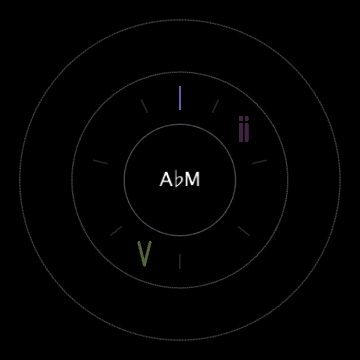
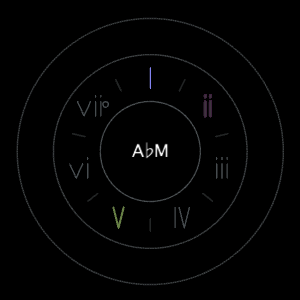
Updated README and example images to reflect the addition of overtones and some layout changes.

diff --git a/packages/engine/test/lenses/HarmonyLens.test.ts b/packages/engine/test/lenses/HarmonyLens.test.ts
@@ -194,8 +194,10 @@ describe("HarmonyLens", () => {
       const frame = createTestFrame(1000, null, 0);
       const scene = lens.update(frame, null);
 
-      // No chord shape, no tension bar (disabled by default)
-      expect(scene.entities.length).toBe(0);
+      // No chord shape, no tension bar (disabled by default); only the
+      // interval-name dial, which is structural and on by default
+      expect(scene.entities.some((e) => e.data?.type === "chord-shape")).toBe(false);
+      expect(scene.entities.every((e) => e.id.includes(":interval-name-"))).toBe(true);
     });
   });
 
@@ -1098,8 +1100,11 @@ describe("HarmonyLens interval-name dial", () => {
   const dial = (lens: HarmonyLens) =>
     lens.update(createTestFrame(1000, null, 0), null).entities.filter((e) => e.id.includes(":interval-name-"));
 
-  it("is off by default", () => {
-    expect(dial(new HarmonyLens())).toHaveLength(0);
+  it("is on by default, and can be turned off", () => {
+    expect(dial(new HarmonyLens())).toHaveLength(12);
+    const lens = new HarmonyLens();
+    lens.setMacros({ intervalNames: false });
+    expect(dial(lens)).toHaveLength(0);
   });
 
   it("labels all twelve angles, R upright at the top and d5 upside down at the bottom", () => {

diff --git a/packages/contracts/annotations/manifest.ts b/packages/contracts/annotations/manifest.ts
@@ -377,7 +377,7 @@ const macros: MacroAnnotation[] = [
     name: "Interval names",
     aliases: ["interval labels", "chord dial", "interval dial", "show intervals"],
     type: "toggle",
-    default: false, // matches HarmonyLens macros.intervalNames
+    default: true, // matches HarmonyLens macros.intervalNames
     affects: ["harmony"],
     notes: [
       "A fixed dial of simple-interval names around the chord glyph, one per semitone from the root at the spoke angles: R m2 M2 m3 M3 P4 d5 P5 m6 M6 m7 M7. R is upright at the top; d5 is upside down at the bottom. Labels sit on the inner edge of the overtone steam ring, in the NOW line's grey.",

diff --git a/packages/engine/src/lenses/HarmonyLens.ts b/packages/engine/src/lenses/HarmonyLens.ts
@@ -401,7 +401,7 @@ export class HarmonyLens implements IVisualLens {
     linger: PROGRESSION_FADE_VALUE,
     overtones: true,
     modalInterchangeHints: false,
-    intervalNames: false,
+    intervalNames: true,
   };
 
   // Fade-out state: when no chord is active, keep rendering the most

diff --git a/README.md b/README.md
@@ -6,7 +6,7 @@ Synesthetica is a real-time music visualiser that listens to MIDI or audio and d
 
 ![Synesthetica — the three lenses in a full-view session](docs/readme/full-view.png)
 
-Tested on Chrome and Claude Desktop. Not built for mobile.
+Tested on Chrome and Claude Desktop. Not built for small screens.
 
 ## Getting started
 
@@ -16,7 +16,7 @@ It'll load in an immediately usable state but it's a lot better if you set up a 
 
 #### Music source
 
-The default input maps an on-screen musical keyboard to your typing keyboard. It requires no setup but has no velocity, limited range and bad ergonomics. A proper MIDI controller is best. Plug one in and reload the page to see it in the inputs list. Audio is also supported but that's converted to MIDI anyway (by Spotify's <a href="https://basicpitch.spotify.com/" target="_blank" rel="noopener noreferrer">Basic Pitch</a> running in Web Assembly), so you'll get best results by supplying MIDI directly.
+The default input maps an on-screen musical keyboard to your typing keyboard. It requires no setup but has no velocity, limited range and bad ergonomics. A proper MIDI controller is best. Plug one in and reload the page to see it in the inputs list. Audio is also supported but that's converted to MIDI anyway (by Spotify's <a href="https://basicpitch.spotify.com/" target="_blank" rel="noopener noreferrer">Basic Pitch</a> running in WebAssembly), so you'll get best results by supplying MIDI directly.
 
 #### Key
 
@@ -24,7 +24,7 @@ A key is required to represent functional harmony (e.g. ii → V → I). It stil
 
 #### Rhythm
 
-It loads up in free time mode. Supply a tempo and time signature to see rhythm analysis. This will give you beat and bar lines, an optional metronome, and a view on how tight your playing is. Timing analysis is relative to a configurable quantise resolution (16ths by default). Swing is not yet supported.
+It loads up in free time mode. Supply a tempo and time signature to see rhythm analysis. This gives you beat and bar lines, an optional metronome, and a view on how tight your playing is. Timing analysis is relative to a configurable quantise resolution (16ths by default). Swing is not yet supported.
 
 #### Aesthetics
 
@@ -59,7 +59,7 @@ Add this block to your Claude Desktop config file (`~/Library/Application Suppor
 
 Restart Claude Desktop after saving. `npx` fetches `synesthetica` from the npm registry the first time it runs and caches it locally, so there's no separate install step. If you'd rather have it installed globally, `npm install -g synesthetica` works too. See [packages/cli/README.md](packages/cli/README.md) for Claude Code and other clients.
 
-Note that the LLM will only spin up context when you start a session or ask about Synesthetica. This keeps the always-on token cost as low as possible, around 50–80 tokens.
+Note that the LLM only spins up context when you start a session or ask about Synesthetica. This keeps the always-on token cost as low as possible, around 50–80 tokens.
 
 #### Start a session
 
@@ -73,32 +73,32 @@ There are three lenses.
 
 #### Dynamics lens
 
-<img src="docs/readme/dynamics.png" alt="Dynamics lens — velocity bar" align="right" height="200" hspace="16">
+<img src="docs/readme/dynamics.png" alt="Dynamics lens — velocity bar" align="left" height="200" hspace="16">
 
 This is the simplest one. It's just a bar on the left of the screen that renders a little strip indicating how hard you played each note. Notes are undifferentiated in pitch and linger a while (you can change how long). This equips your visual memory to see rising and falling trends, stability and spread. No need for fancy graphs because your brain does this well already. The higher the strip, the harder you played.
 
-<br clear="right">
+<br clear="left">
 
 
 #### Rhythm lens
 
-This is a bit like those piano tutorial videos, where the notes fall toward a keyboard. Except they rise from the keyboard in this case because we're showing what happened instead of prescribing what will - you are the input; do what you want.
+This is a bit like those piano tutorial videos, where the notes fall toward a keyboard. Except they rise from the keyboard in this case because we're showing what happened instead of prescribing what will — you are the input; do what you want.
 
-There's a "now" line near the bottom that will pulse to the beat if a tempo is supplied. The notes you play will emerge from there and scroll upward. You'll see upcoming beats and bars approach from below the now line.
+There's a "now" line near the bottom that pulses to the beat if a tempo is supplied. The notes you play emerge from there and scroll upward. You'll see upcoming beats and bars approach from below the now line.
 
-Notes are arranged horizontally from C to B and are mapped to the colour wheel to give each note a stable colour. You can change this mapping. It is applied throughout the interface. Octaves are ignored.
+Notes are labelled and arranged horizontally from C to B, and are mapped to the colour wheel to give each note a stable colour. You can change this mapping. It is applied throughout the interface. Octaves are ignored.
 
-If you've supplied a tempo, little drift streaks will tell you if you played early or late. Think of them as a nudge; streaks fanning downwards are saying this note would need to be a bit higher / earlier to be on-grid. Ones fanning upwards say the inverse (lower / later). This is analysed relative to the quantise resolution setting. A little horizontal line will show the nearest beat division that each note is assessed against.
+If you've supplied a tempo, little drift streaks show if you've played early or late. Think of them as a nudge; streaks fanning downwards are saying this note would need to be a bit higher / earlier to be on-grid. Ones fanning upwards say the inverse (lower / later). This is analysed relative to the quantise resolution setting. A little horizontal line shows the nearest beat division that each note is assessed against.
 
 ![Rhythm lens — note strips rising from the NOW line, drift streaks against beat subdivisions](docs/readme/rhythm.png)
 
 #### Harmony lens
 
-This is the most complex one. It has two sections: a chord glyph and a functional harmony clock. Both orient notes radially, like a clock (for the geeks: think of the 12-note semitone / 7-note diatonic structure as analogous to base12 / base7 modular arithmetic).
+This is the most complex one. It has two sections: a chord glyph and a functional harmony clock. Both are laid out radially, like a clock (for the geeks: think of the 12-note semitone / 7-note diatonic structure as analogous to base12 / base7 modular arithmetic).
 
 ##### Chord glyph
 
-The chord glyph provides a stable visual language for chord quality, irrespective of root note or voicing. Any minor triad, for example, will always have a squiggly hub and three long spokes with the same spacing, regardless of how it's voiced or where it's rooted.
+The chord glyph provides a stable visual language for chord quality, irrespective of root note or voicing. Any minor triad, for example, always has a squiggly hub and three long spokes with the same spacing, regardless of how it's voiced or where it's rooted.
 
 The hub margin encodes chord quality.
 
@@ -112,7 +112,7 @@ The hub margin encodes chord quality.
 | Diminished | Concave |
 | Augmented | Convex |
 
-The spokes encode intervals. They are classed by length and appear oriented around the clock relative to their intervallic distance. Any two spokes that are a major 3rd apart will be at the same angle to each other. Two spokes that are a minor 3rd apart will have a slightly more acute angle. The root note is always at 0° / 12 o'clock.
+Each note appears as a radial spoke around the hub. They are spaced out according to their intervallic distance from root. Much like a clock, it starts with root at 0° / 12 o'clock and wraps around at an octave. Intervals are labelled relative to root in a ring around the glyph. The spatial relationships hold throughout the chord though. For example, any two spokes that are a minor 3rd apart are always at the same angle to each other, which is slightly more acute than a major 3rd's. Spoke length shows each interval's role in the chord:
 
 | Interval set | Spoke type |
 | --- | --- |
@@ -123,27 +123,27 @@ The spokes encode intervals. They are classed by length and appear oriented arou
 
 Each spoke encodes its specific note using the same colour-mappings applied to the rhythm lens. The hub adopts the colour of the root note. Inversions are subtly indicated by a thicker outline on the bass spoke.
 
+Overtones are shown as a wispy mist corona emitted from the ring of interval labels. Each partial appears around the ring at its pitch's angle and colour. Partials sit at their true pitch, so they drift from equal temperament. They combine across notes, and their level is shown by the density of the mist. This gives a sense of which notes a chord already implies. Overtones can also be shown on the rhythm lens from the Basics tab; level, rolloff and colour are in Advanced. Note that this is a theoretical model that doesn't measure audio frequencies.
+
 It's kind of a lot to explain verbally but it makes sense when you see it.
 
-| <img src="docs/readme/chord%20glyph%20C%20maj.png" alt="C major" width="150"> | <img src="docs/readme/chord%20glyph%20A%20min.png" alt="A minor" width="150"> | <img src="docs/readme/chord%20glyph%20C%20maj%207.png" alt="Cmaj7" width="150"> | <img src="docs/readme/chord%20glyph%20D%20flat%20maj%207%20sharp%2011.png" alt="D♭maj7♯11" width="150"> |
-| :---: | :---: | :---: | :---: |
-| **C major** | **A minor** | **Cmaj7** | **D♭maj7♯11** |
+| <img src="docs/readme/chord%20glyph%20C%20maj.png" alt="C major" width="150"> | <img src="docs/readme/chord%20glyph%20A%20min.png" alt="A minor" width="150"> | <img src="docs/readme/chord%20glyph%20F%20sharp%20maj%209.png" alt="F♯maj9" width="150"> | <img src="docs/readme/chord%20glyph%20G%205.png" alt="G5 (power chord)" width="150"> | <img src="docs/readme/chord%20glyph%20D%20flat%207%20sharp%2011.png" alt="D♭7♯11" width="150"> |
+| :---: | :---: | :---: | :---: | :---: |
+| **C major** | **A minor** | **F♯maj9** | **G5** | **D♭7♯11** |
 
 ##### Functional harmony clock
 
-Same idea but instead of notes in a chord we have chords in a key. It shows chord symbols instead of note spokes.
+Same idea but instead of notes in a chord we have chords in a key. Movements like ii → V → I. Roman numerals light up in rings around the chord's name. Chord names are always shown but the rings and symbols only appear when a key is specified.
 
 There's an inner ring for the diatonic chords: I is at 0° / 12 o'clock and the rest cycles clockwise through to vii.
 
-The outer ring holds non-diatonic chords. These will appear at the midpoint angle between the two neighbouring diatonic chords. If you play a non-diatonic chord that has a modal-interchange relationship that can resolve back to a diatonic chord, an animated arc will fan out along the clock and visually indicate the implied resolution. This applies over two orders of sub-dominant resolution.
-
-The full chord name appears at the centre of the clock, even if no key is specified and the clock is disabled. If a key is supplied, the chord name is inferred relative to it.
+The outer ring holds non-diatonic chords. These appear at the midpoint angle between the two neighbouring diatonic chords. If you play a non-diatonic chord that has a modal-interchange, subdominant-borrowing or secondary-dominant relationship that can resolve back to a diatonic chord, an animated arc fans out along the clock to show how it would resolve. This applies over two orders of resolution. In major keys, an optional Basics toggle adds greyed modal-interchange possibilities (♭II, ♭III, iv, ♭VI, ♭VII) to the outer ring.
 
 Again, it's a lot to take in verbally. Easier seen in action.
 
-| <img src="docs/readme/harmony%20clock%202-5-1%20in%20Aflat.png" alt="ii–V–I in A♭" width="300"> | <img src="docs/readme/harmony%20clock%20resolved%20modal%20interchange%20from%20B%20maj%20to%20Eflat%20maj%20in%20Aflat.png" alt="Modal interchange: B major resolving to E♭ major in A♭" width="300"> |
+| <img src="docs/readme/harmony%20clock%202-5-1%20in%20Aflat.png" alt="ii–V–I in A♭" width="300"> | <img src="docs/readme/harmony%20clock%20resolved%20secondary%20dominant%20from%20Csharp%20maj%20to%20Fsharp%207%20in%20B.png" alt="Secondary dominant: C♯ major (V/V) resolving to F♯7 in B" width="300"> |
 | :---: | :---: |
-| **ii–V–I in A♭** | **B major → E♭ major — modal interchange resolving in A♭** |
+| **ii → V → I in A♭** | **C♯ → F♯7 — secondary dominant (V/V) resolving in B** |
 
 ### How it works
 
@@ -173,7 +173,7 @@ The primer is detailed and extensive. It explains system concepts and the musica
 
 The whole thing is designed with an LLM as the primary intended user. Retrieving music history reflects this well. The LLM is given an orientation around time, and told how to reason about events relative to the rhythm grid.
 
-The web UI controls are generated from this same manifest, along with human-specific tooltips. I quite like that the manifest enforces these per-tool annotations at the type level.
+The web UI controls are generated from this same manifest, along with human-specific tooltips.
 
 ## Design ethos
 
@@ -181,7 +181,7 @@ This project was partly an experiment in operating alongside LLMs, both as user 
 
 See [PRINCIPLES.md](PRINCIPLES.md) for a canonical set of guiding principles. These were important.
 
-The workflow is interesting because this project is as much a design exercise as an engineering one. As such, it didn't work to heavily specify. I couldn't let a swarm of agents loose and grind until they're done because I had no idea what done was. Being inherently exploratory, the problem was not verifiable in significant iteration lengths. This demanded a very conversational workflow. I often found myself giving simple prompts like "write the spec", or "go ahead" after fully developing a shared understanding in dialogue. This demanded very careful management of terminology, with explicit promotion through iterative layers of communicative and design certainty. The chord glyph language, for example, was developed initially in unicode, then svg, then html canvas, then webGL canvas. Each stage layered new certainties into emergent specs and glossaries. <a href="https://mcnoose.com/synesthetica/chord-shapes/" target="_blank" rel="noopener noreferrer">Here's</a> an svg-stage test artefact for the curious.
+The workflow is interesting because this project is as much a design exercise as an engineering one. As such, it didn't work to heavily specify. I couldn't let a swarm of agents loose and grind until they're done because I had no idea what done was. Being inherently exploratory, the problem was not verifiable in significant iteration lengths. This demanded a very conversational workflow. I often found myself giving simple prompts like "write the spec", or "go ahead" after fully developing a shared understanding in dialogue. This demanded very careful management of terminology, with explicit promotion through iterative layers of communicative and design certainty. The chord glyph language, for example, was developed initially in unicode, then SVG, then HTML canvas, then WebGL canvas. Each stage layered new certainties into emergent specs and glossaries. <a href="https://mcnoose.com/synesthetica/chord-shapes/" target="_blank" rel="noopener noreferrer">Here's</a> an svg-stage test artefact for the curious.
 
 Given the above, I erred towards verbosity and am absolutely not making efficient use of tokens (yet).
 

diff --git a/specs/SPEC_010_visual_vocabulary.md b/specs/SPEC_010_visual_vocabulary.md
@@ -129,7 +129,7 @@ template that covers triads and common 7ths only. Future work: alterations
 (♭9, ♯9, ♯11) should be classified as lines even when present in
 `chordTones` — tracked under the chord-detection umbrella.
 
-**Interval-name dial (optional, `harmony:interval-names`, default off):** a fixed dial of simple-interval names at the spoke angles — R m2 M2 m3 M3 P4 d5 P5 m6 M6 m7 M7 — with each label's baseline on the inner edge of the overtone steam ring and rotated to its angle (R upright at the top, d5 upside down at the bottom). Drawn in the NOW line's grey whatever the chord, as structure; colour stays with the spokes and steam. The dial names pitch distance from the root, so chord-specific spellings (♯5, 9, 11, 13) read under their simple-interval angle.
+**Interval-name dial (optional, `harmony:interval-names`, default on):** a fixed dial of simple-interval names at the spoke angles — R m2 M2 m3 M3 P4 d5 P5 m6 M6 m7 M7 — with each label's baseline on the inner edge of the overtone steam ring and rotated to its angle (R upright at the top, d5 upside down at the bottom). Drawn in the NOW line's grey whatever the chord, as structure; colour stays with the spokes and steam. The dial names pitch distance from the root, so chord-specific spellings (♯5, 9, 11, 13) read under their simple-interval angle.
 
 ### 6. Harmonic Series Overlay
 

diff --git a/packages/engine/src/lenses/GLOSSARY.md b/packages/engine/src/lenses/GLOSSARY.md
@@ -78,7 +78,7 @@ The rhythm-lens rendering of one partial with n ≥ 3. Partials 1, 2, 4 and 8 sh
 A fixed row of pitch names under the NOW line, one centred under each pitch-class column, in the NOW line's grey and the on-screen keyboard's monospace font. Spelling comes from the frame (key-aware; default sharps). Toggled by `rhythm:note-names` (on by default).
 
 **Interval-name dial**
-Simple-interval names (R m2 M2 m3 M3 P4 d5 P5 m6 M6 m7 M7) around the chord glyph at the spoke angles, baselines on the steam ring's inner edge, rotated to their angle. NOW-line grey; toggled by `harmony:interval-names` (off by default).
+Simple-interval names (R m2 M2 m3 M3 P4 d5 P5 m6 M6 m7 M7) around the chord glyph at the spoke angles, baselines on the steam ring's inner edge, rotated to their angle. NOW-line grey; toggled by `harmony:interval-names` (on by default).
 
 **Overtone halo** (proposed name, RFC 012)
 The chord glyph's rendering of its tones' partials: a ring of steam just outside the longest spoke, beyond a gap of negative space, at each partial's angle; one set per distinct pitch class of the chord. Fixed shape, with density as the partial level. Same steam rules as overtone strips; fades with the glyph.
